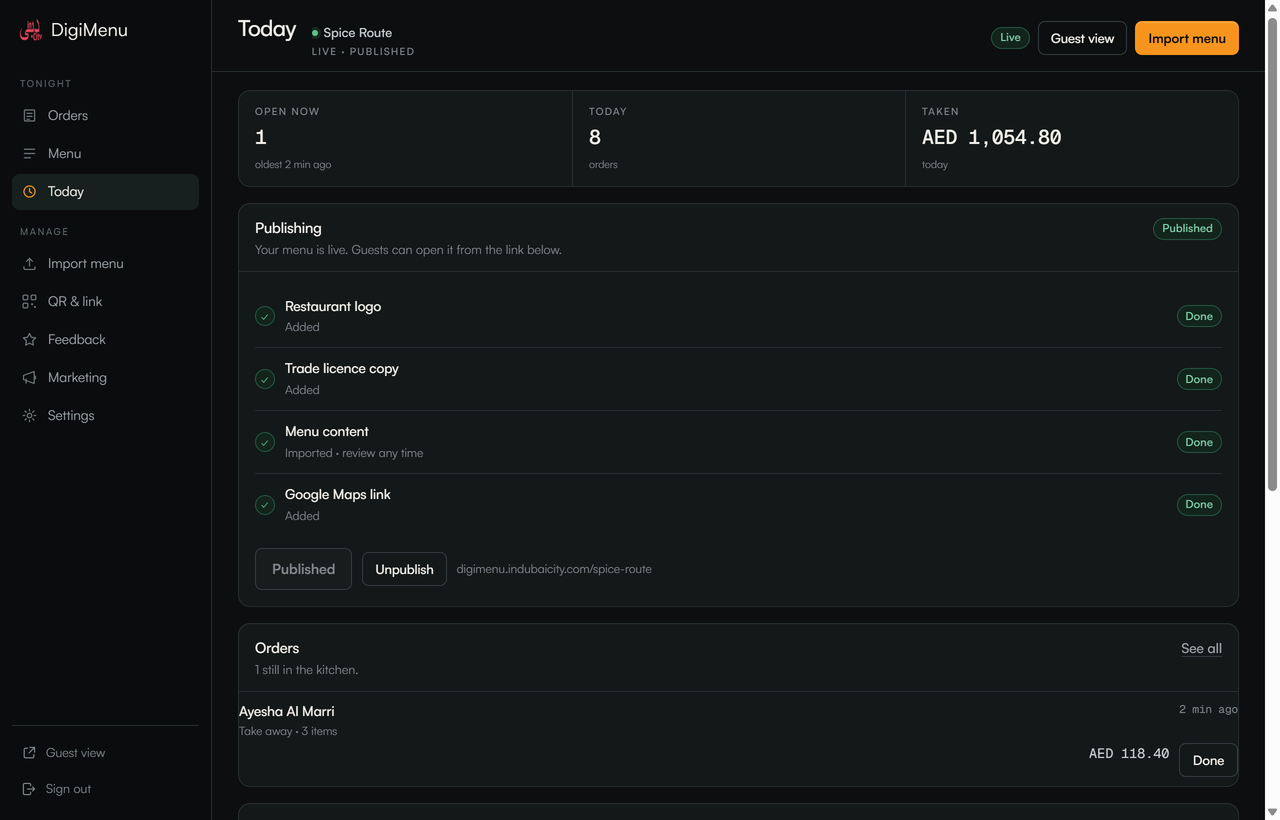
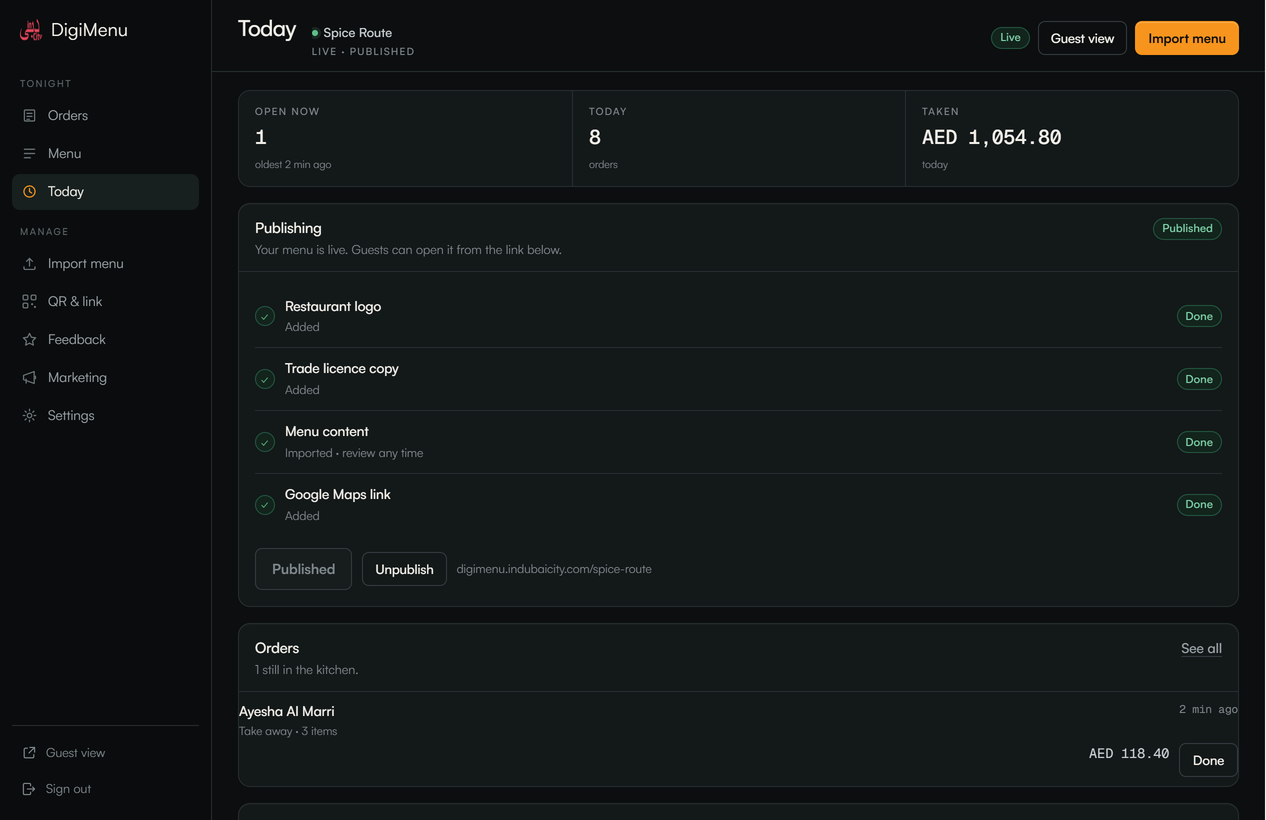
landing: the hero photo becomes a window, and the plans get their floor
The dish photo is portrait; cropped to a landscape hero it turned into an
unreadable brown mass. It takes the right 47% at close to its own ratio,
fading into the ground at the seam, with the live order card on its floor
clear of the copy. Card CTAs align on the same baseline, prices print
without a comma gap, and the dashboard screenshot no longer carries a
scrollbar.

diff --git a/assets/landing.css b/assets/landing.css
@@ -237,31 +237,41 @@ button { font: inherit; color: inherit; }
   overflow: hidden;
 }
 
+/* A portrait dish photo in a landscape frame cannot fill it: cropped to the
+   hero's aspect it becomes an unreadable brown mass. It gets its own window on
+   the right instead, near its native ratio, fading into the ground at the seam. */
 .hero-photo {
   position: absolute;
-  inset: 0;
+  top: 0;
+  right: 0;
+  bottom: 0;
+  width: 47%;
   z-index: -2;
 }
 .hero-photo img {
   width: 100%;
   height: 100%;
   object-fit: cover;
-  object-position: 50% 50%;
+  object-position: 56% 40%;
 }
-/* the scrim follows the copy column, not the top of the frame: a top-to-bottom
-   gradient leaves the text sitting in the lightest band of the very photo */
+/* the seam softens into the page, and the top/bottom edges take the nav and the
+   marquee without a hard line */
 .hero-photo::after {
   content: "";
   position: absolute;
   inset: 0;
   background:
-    linear-gradient(96deg,
-      rgba(10, 11, 12, .97) 0%,
-      rgba(10, 11, 12, .93) 34%,
-      rgba(10, 11, 12, .55) 58%,
-      rgba(10, 11, 12, .30) 78%,
-      rgba(10, 11, 12, .62) 100%),
-    linear-gradient(to bottom, rgba(10, 11, 12, .72) 0%, rgba(10, 11, 12, 0) 26%, rgba(10, 11, 12, .92) 97%);
+    linear-gradient(90deg,
+      var(--bg) 0%,
+      rgba(10, 11, 12, .82) 9%,
+      rgba(10, 11, 12, .30) 24%,
+      rgba(10, 11, 12, 0) 44%,
+      rgba(10, 11, 12, .18) 100%),
+    linear-gradient(180deg,
+      rgba(10, 11, 12, .78) 0%,
+      rgba(10, 11, 12, .10) 22%,
+      rgba(10, 11, 12, .10) 76%,
+      rgba(10, 11, 12, .92) 100%);
 }
 
 .hero-grid {
@@ -303,10 +313,22 @@ button { font: inherit; color: inherit; }
   margin-bottom: 1px;
 }
 
+/* over a photograph the ghost button needs its own ground, or its hairline
+   border disappears into the food and only the label floats */
+.hero .btn-line {
+  background: rgba(10, 11, 12, .52);
+  border-color: rgba(255, 255, 255, .28);
+  backdrop-filter: blur(10px) saturate(120%);
+  -webkit-backdrop-filter: blur(10px) saturate(120%);
+}
+.hero .btn-line:hover { background: rgba(10, 11, 12, .72); border-color: rgba(255, 255, 255, .45); }
+
 /* the live order, floating over the photograph */
 .float {
   justify-self: end;
-  width: min(360px, 100%);
+  align-self: end;
+  margin: 0 10px 8px 0;
+  width: min(336px, 100%);
   background: rgba(18, 22, 26, .86);
   border: 1px solid rgba(255, 255, 255, .13);
   border-radius: var(--r-lg);
@@ -398,11 +420,15 @@ button { font: inherit; color: inherit; }
 @media (max-width: 1023px) {
   .hero { min-height: 0; padding-top: 104px; }
   .hero-grid { grid-template-columns: 1fr; gap: 30px; }
+  .hero-photo { width: 100%; }
+  .hero-photo img { object-position: 50% 34%; }
+  /* on a phone the copy sits on top of the dish, so the ground is nearly solid
+     behind it and the photograph becomes texture rather than the subject */
   .hero-photo::after {
     background:
-      linear-gradient(to bottom, rgba(10, 11, 12, .86) 0%, rgba(10, 11, 12, .74) 40%, rgba(10, 11, 12, .95) 100%);
+      linear-gradient(to bottom, rgba(10, 11, 12, .96) 0%, rgba(10, 11, 12, .90) 42%, rgba(10, 11, 12, .97) 100%);
   }
-  .float { justify-self: stretch; width: 100%; max-width: 380px; animation: none; }
+  .float { justify-self: stretch; width: 100%; max-width: 380px; margin-left: 0; animation: none; }
 }
 
 /* ------------------------------------------------------------- marquee ---- */
@@ -839,7 +865,7 @@ table.compare {
 }
 table.compare th,
 table.compare td {
-  padding: 13px 18px;
+  padding: 11px 18px;
   text-align: left;
   border-bottom: 1px solid var(--rule);
   vertical-align: middle;
@@ -861,11 +887,11 @@ table.compare thead th.hi { color: var(--brand); }
 table.compare th[scope="row"] {
   font-weight: 500;
   color: var(--ink-2);
-  width: 46%;
+  width: 42%;
 }
 table.compare tbody tr:last-child th,
 table.compare tbody tr:last-child td { border-bottom: 0; }
-table.compare td { text-align: center; width: 18%; color: var(--ink-2); }
+table.compare td { text-align: center; width: 19.3%; color: var(--ink-2); }
 table.compare tbody tr:not(.group):hover td,
 table.compare tbody tr:not(.group):hover th { background: #151A1F; }
 table.compare td:first-of-type, table.compare th:first-of-type { position: sticky; left: 0; background: var(--panel); }

diff --git a/index.html b/index.html
@@ -9,7 +9,7 @@
 <meta property="og:title" content="DigiMenu — the QR menu that takes the order">
 <meta property="og:description" content="Guests scan, order and pay nothing extra. Orders land in your WhatsApp. From AED 99 a year, no commission.">
 <meta property="og:type" content="website">
-<meta property="og:image" content="assets/photos/hero-burger.jpg">
+<meta property="og:image" content="assets/photos/p12034622.jpg">
 <!-- A restaurant's own domain points at this same deployment. On any host that
      is not ours, the root is their menu, not our marketing page. This runs
      before anything paints, and returns immediately on our own hostnames. -->
@@ -27,7 +27,7 @@
 <link rel="manifest" href="assets/site.webmanifest">
 <!-- Satoshi + Geist Mono, self-hosted. No third-party font host is contacted. -->
 <link rel="stylesheet" href="assets/fonts.css?v=20261114a">
-<link rel="stylesheet" href="assets/landing.css?v=20261114b">
+<link rel="stylesheet" href="assets/landing.css?v=20261114h">
 <script>document.documentElement.classList.add("js");</script>
 <script type="application/ld+json">
 {
@@ -70,7 +70,7 @@
   <!-- ============================== hero ============================== -->
   <section class="hero">
     <div class="hero-photo">
-      <img src="assets/photos/hero-burger.jpg" alt="A double cheeseburger photographed on a charcoal ground" fetchpriority="high">
+      <img src="assets/photos/p12034622.jpg" alt="A double cheeseburger photographed on a charcoal ground" fetchpriority="high">
     </div>
 
     <div class="wrap hero-grid">
